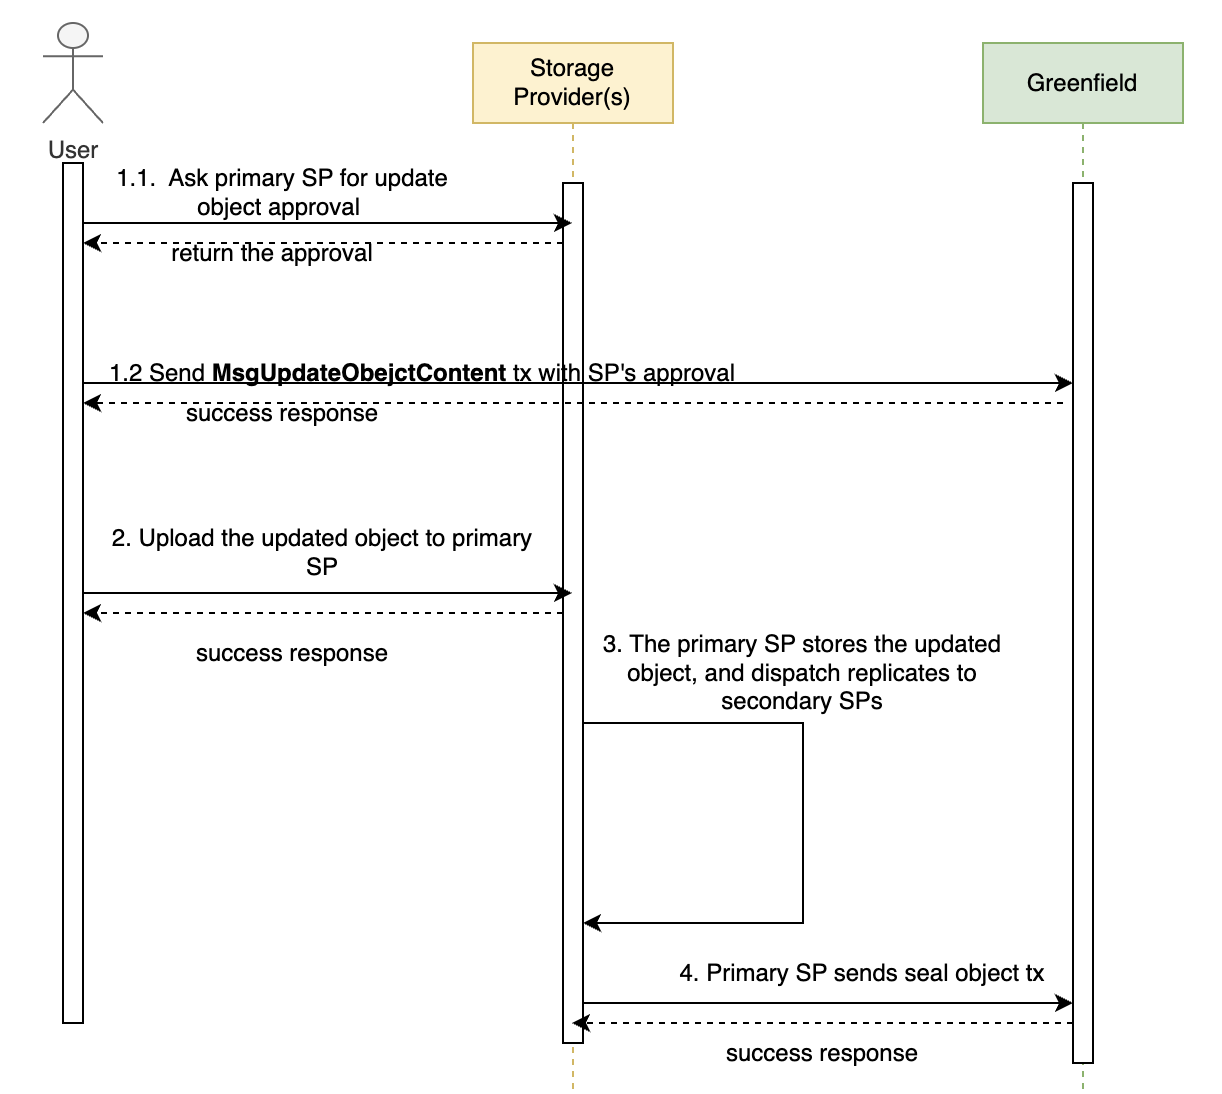
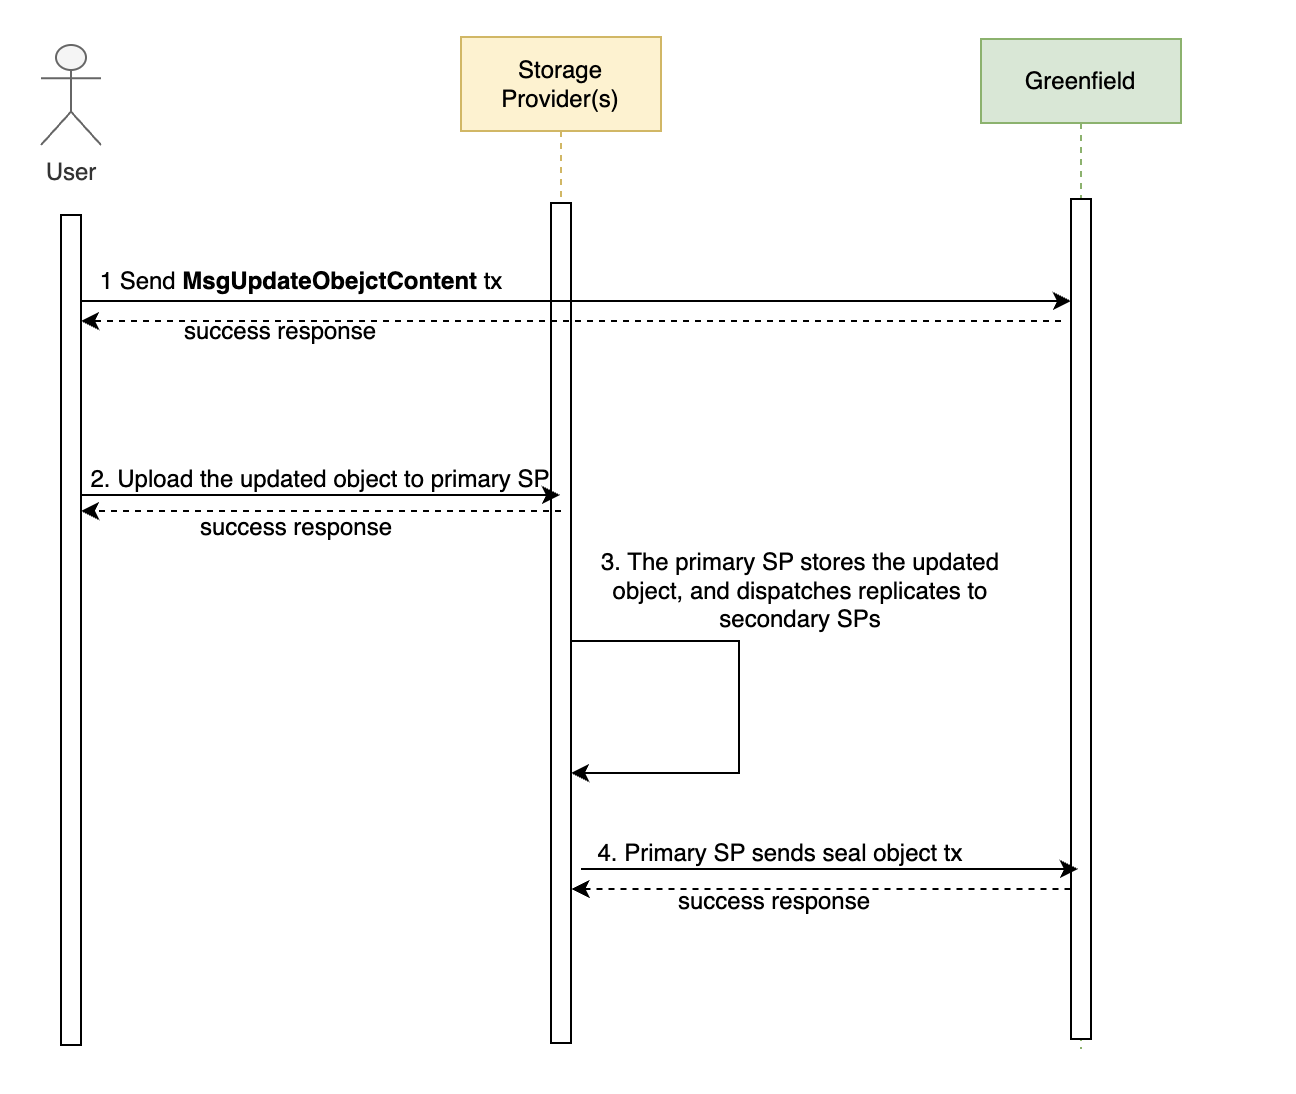
fix some comments

diff --git a/BEPs/BEP-346.md b/BEPs/BEP-346.md
@@ -12,7 +12,7 @@
 
 <!-- code_chunk_output -->
 
-- [BEP-335: Simplify Storage Provider Exit](#bep-335-simplify-storage-provider-exit)
+- [BEP-346: Greenfield Atomic Object Update](#bep-greenfield-atomic-object-update)
   - [1. Summary](#1-summary)
   - [2. Motivation](#2-motivation)
   - [3. Status](#3-status)
@@ -30,10 +30,11 @@ This proposal seeks to enhance the efficiency and reliability of object modifica
 atomic object updates. This update will improve the management of objects in Greenfield by ensuring atomicity, and consistency.
 
 ## 2. Motivation
-Currently, users are required to delete and recreate objects in order to replace their content in Greenfield. 
-This process leads to the loss of associated policies and change to the object's ID, requiring users to re-enforce policies 
-and trigger any mirroring processes again, refer to [Resource Mirror](https://docs.bnbchain.org/greenfield-docs/docs/faq/mirroring-faqs/#what-is-mirroring) for more details.  The motivation behind this proposal is to address these issues and provide a 
-more efficient and seamless object update process.
+Currently, users face the inconvenience of having to delete and recreate objects in Greenfield in order to replace their content.
+This process results in the updated object being assigned a new ID, causing associated policies to be lost since they are based on object ID.
+This restriction also applies to [Resource Mirror](https://docs.bnbchain.org/greenfield-docs/docs/faq/mirroring-faqs/#what-is-mirroring).
+Consequently, users are required to re-enforce policies and re-trigger mirroring on the updated object if they had previously done so. 
+The proposed solution aims to address these issues and offer a more efficient and seamless object update process.
 
 ## 3. Status
 This BEP is under progress
@@ -41,7 +42,7 @@ This BEP is under progress
 ## 4. Specification
 
 ### 4.1 Requirements
-- Atomicity: Atomicity refers to the ability to ensure that updates to an object either all succeed or all fail, guaranteeing that the object remains in a consistent state.
+- Atomicity: Atomicity refers to the ability to ensure that updates to an object either all succeed or all fail, guaranteeing that the object is not partially updated.
 - Consistency: Ensures that an object remains in a valid and predictable state after a successful update. Object metadata on the Greenfield Blockchain and the data stored on the Storage Provider will be maintained to ensure users can retrieve correct object data at any state of the updating process.
 
 ### 4.2 Implementation
@@ -65,25 +66,12 @@ This BEP is under progress
   - `version`: The expected next version of the object.
 - `MsgUpdateObjectContent`: A new message for users' update object content transaction. The new object's payload_size,
   checksums along with approval from primary SP's approval need to be specifcied.
-```protobuf
-message MsgUpdateObjectContent {
-  option (cosmos.msg.v1.signer) = "operator";
-  // operator defines the account address of object uploader
-  string operator = 1 [(cosmos_proto.scalar) = "cosmos.AddressString"];
-  // bucket_name defines the name of the bucket where the object is stored.
-  string bucket_name = 2;
-  // object_name defines the name of object
-  string object_name = 3;
-  // payload_size defines size of the object's payload
-  uint64 payload_size = 4;
-  // content_type defines a standard MIME type describing the format of the object.
-  string content_type = 5;
-  // primary_sp_approval defines the approval info of the primary SP which indicates that primary sp confirm the user's request.
-  common.Approval primary_sp_approval = 6;
-  // expect_checksums defines a list of hashes which was generate by redundancy algorithm.
-  repeated bytes expect_checksums = 7;
-}
-```
+  - `operator`: The account who initiates update object request, can be the owner or any account that has been granted permission to update object content.
+  - `bucket_name`: The bucket name which object belongs to.
+  - `object_name`: The object name.
+  - `payload_size`:The updated object size.
+  - `content_type`: The timestamp that user initiated to update object request.
+  - `expect_checksums`: The updated checksums of pieces stored in storage providers.
 
 ## 4.3 Workflow
 
@@ -91,21 +79,20 @@ The steps to update an object are illustrated below. To users, it is similar whe
 
 ![](./assets/BEP-346/workflow.png)
 
-1. Users obtain approval from the primary SP where the object is stored and send the transaction to Greenfield with the 
-   message MsgUpdateObjectContent. This stores the updated object metadata via shadowObjectInfo and flags the object as 
+1. Users send the transaction to Greenfield with the message `MsgUpdateObjectContent`. This stores the updated object metadata via shadowObjectInfo and flags the object as 
    updating without changing the objectInfo on-chain.
 
 2. Users upload the updated object to the primary SP. The SP will validate if the object can be updated and authenticate 
    the user's account permission.
 
-3. The SP should keep the original and updated object data simultaneously, version in ObjectInfo or ShadowObjectInfo is 
+3. The SP should keep the original and updated object data simultaneously. Version in ObjectInfo or ShadowObjectInfo is 
    also used to identify the object data persistence to ensure there is no conflict. Users should be able to `GET` 
    the original object data at this moment as the version field has not changed.
 
 4. The primary SP sends the sealing object transaction to the Greenfield blockchain, changes to objectInfo will take effect according 
    to meta stored in shadowObjectInfo with version increment. Users will be able to GET the updated object data.
    In the case where SP fails to seal the object after retries, it would send tx RejectSealobject to Greenfield to reject 
-   the users request. The metadata shadowObjectInfo will be removed from chain, updated object data will be removed from SP.
+   the users request. The metadata ShadowObjectInfo will be removed from chain, updated object data will be removed from SP.
 
 ## 4.4 Fees & User Charges
 The current policy regarding user charges is as follows: When users create and upload an object, a minimum of 6 months 
